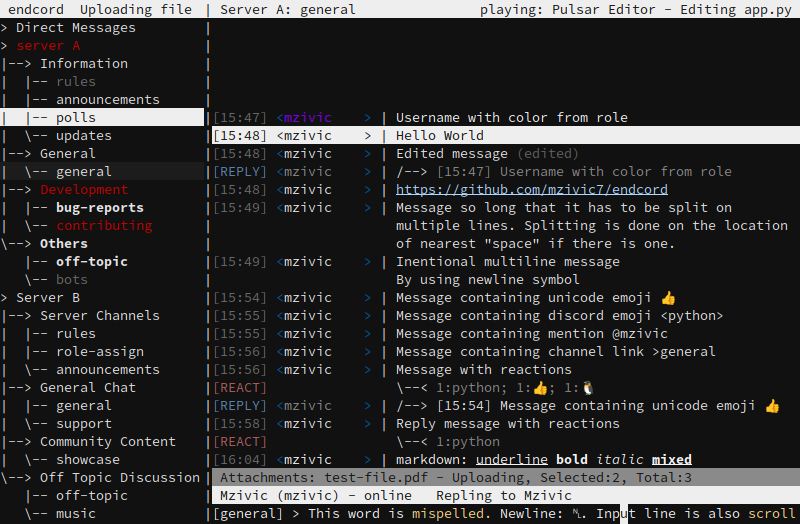
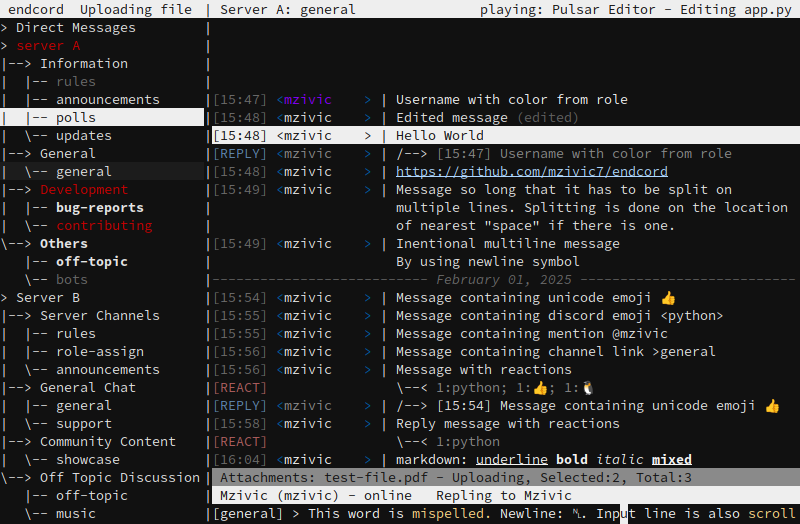
Add date separators Fix image rich embeds Update screenshots

diff --git a/endcord/gateway.py b/endcord/gateway.py
@@ -470,20 +470,21 @@ class Gateway():
                                 response["d"]["referenced_message"]["attachments"] = forwarded.get("attachments")
                             reference_embeds = []
                             for embed in response["d"]["referenced_message"]["embeds"]:
-                                if "url" in embed:
-                                    content = embed["url"]
-                                    # take direct video url
-                                    if "video" in embed and "url" in embed["video"]:
-                                        content = embed["video"]["url"]
+                                content = embed.get("url")
+                                if "video" in embed and "url" in embed["video"]:
+                                    content = embed["video"]["url"]
+                                elif "image" in embed and "url" in embed["image"]:
+                                    content = embed["image"]["url"]
                                 elif "fields" in embed:
                                     content = f"{embed["fields"][0]["name"]}\n{embed["fields"][0]["value"]}"
                                 else:
                                     content = None
-                                reference_embeds.append({
-                                    "type": embed["type"].replace("rich", "url"),
-                                    "name": None,
-                                    "url": content,
-                                })
+                                if content:
+                                    reference_embeds.append({
+                                        "type": embed["type"],
+                                        "name": None,
+                                        "url": content,
+                                    })
                             for attachment in response["d"]["referenced_message"]["attachments"]:
                                 reference_embeds.append({
                                     "type": attachment["content_type"],
@@ -514,11 +515,11 @@ class Gateway():
                             response["d"]["embeds"] = forwarded.get("embeds")
                             response["d"]["attachments"] = forwarded.get("attachments")
                         for embed in response["d"]["embeds"]:
-                            if "url" in embed:
-                                content = embed["url"]
-                                # take direct video url
-                                if "video" in embed and "url" in embed["video"]:
-                                    content = embed["video"]["url"]
+                            content = embed.get("url")
+                            if "video" in embed and "url" in embed["video"]:
+                                content = embed["video"]["url"]
+                            elif "image" in embed and "url" in embed["image"]:
+                                content = embed["image"]["url"]
                             elif "fields" in embed:
                                 content = ""
                                 if "url" in embed:
@@ -529,7 +530,7 @@ class Gateway():
                             else:
                                 content = None
                             # checking url path because query can be changed by discord
-                            if urllib.parse.urlparse(content).path not in response["d"]["content"]:
+                            if content and urllib.parse.urlparse(content).path not in response["d"]["content"]:
                                 embeds.append({
                                     "type": embed["type"],
                                     "name": None,
@@ -580,11 +581,11 @@ class Gateway():
                 elif optext == "MESSAGE_UPDATE":
                     embeds = []
                     for embed in response["d"]["embeds"]:
-                        if "url" in embed:
-                            content = embed["url"]
-                            # take direct video url
-                            if "video" in embed and "url" in embed["video"]:
-                                content = embed["video"]["url"]
+                        content = embed.get("url")
+                        if "video" in embed and "url" in embed["video"]:
+                            content = embed["video"]["url"]
+                        elif "image" in embed and "url" in embed["image"]:
+                            content = embed["image"]["url"]
                         elif "fields" in embed:
                             content = ""
                             if "url" in embed:
@@ -594,7 +595,7 @@ class Gateway():
                             content = content.strip("\n")
                         else:
                             content = None
-                        if urllib.parse.urlparse(content).path not in response["d"]["content"]:
+                        if content and urllib.parse.urlparse(content).path not in response["d"]["content"]:
                             embeds.append({
                                 "type": embed["type"],
                                 "name": None,

diff --git a/endcord/formatter.py b/endcord/formatter.py
@@ -4,7 +4,8 @@ import re
 from datetime import datetime
 
 logger = logging.getLogger(__name__)
-
+DAY_MS = 24*60*60*1000
+DISCORD_EPOCH_MS = 1420070400000
 
 match_emoji_string = re.compile(r"<.*?:.*?:\d*?>")
 match_emoji_name = re.compile(r"(?<=<:).*?(?=:)")
@@ -58,6 +59,18 @@ def generate_timestamp(discord_time, format_string, timezone=True):
     if timezone:
         time_obj = time_obj.astimezone()
     return datetime.strftime(time_obj, format_string)
+
+
+def day_from_snowflake(snowflake, timezone=True):
+    """Extract day from discord snowflake with optional timezone conversion"""
+    snowflake = int(snowflake)
+    if timezone:
+        time_obj = datetime.fromtimestamp(((snowflake >> 22) + DISCORD_EPOCH_MS) / 1000).astimezone()
+        time_obj = time_obj.astimezone()
+        return time_obj.day
+    # faster than datetime, but no timezone conversion
+    return ((snowflake >> 22) + DISCORD_EPOCH_MS) / DAY_MS
+
 
 
 def clean_emojis(line):
@@ -194,7 +207,7 @@ def clean_type(embed_type):
     return re.sub(match_after_slash, "", embed_type)
 
 
-def generate_chat(messages, roles, channels, format_message, format_newline, format_reply, format_reactions, format_one_reaction, format_timestamp, edited_string, reactions_separator, max_length, my_id, my_roles, member_roles, colors, colors_formatted, blocked, limit_username=15, limit_global_name=15, use_nick=True, convert_timezone=True, blocked_mode=1, keep_deleted=False):
+def generate_chat(messages, roles, channels, max_length, my_id, my_roles, member_roles, colors, colors_formatted, blocked, config):
     """
     Generate chat according to provided formatting.
     Message shape:
@@ -232,15 +245,36 @@ def generate_chat(messages, roles, channels, format_message, format_newline, for
     Returned indexes correspond to each message as how many lines it is covering.
     use_nick will make it use nick instead global_name whenever possible.
     """
+
+    # load from config
+    format_message = config["format_message"]
+    format_newline = config["format_newline"]
+    format_reply = config["format_reply"]
+    format_reactions = config["format_reactions"]
+    format_one_reaction = config["format_one_reaction"]
+    format_timestamp = config["format_timestamp"]
+    edited_string = config["edited_string"]
+    reactions_separator = config["reactions_separator"]
+    limit_username = config["limit_username"]
+    limit_global_name = config["limit_global_name"]
+    use_nick = config["use_nick_when_available"]
+    convert_timezone = config["convert_timezone"]
+    blocked_mode = config["blocked_mode"]
+    keep_deleted = config["keep_deleted"]
+    date_separator = config["chat_date_separator"]
+    format_date = config["format_date"]
+
     chat = []
     chat_format = []
     indexes = []
     len_edited = len(edited_string)
+    enable_separator = format_date and date_separator
 
     # load colors
     color_default = [colors[0]]
     color_blocked = [colors[2]]
     color_deleted = [colors[3]]
+    color_separator = [colors[4]]
     color_chat_edited = colors_formatted[4][0]
     color_mention_chat_edited = colors_formatted[10][0]
     color_chat_url = colors_formatted[5][0][0]
@@ -279,7 +313,7 @@ def generate_chat(messages, roles, channels, format_message, format_newline, for
     else:
         end_name = pre_name_len + limit_global_name + 1
 
-    for message in messages:
+    for num, message in enumerate(messages):
         temp_chat = []   # stores only one multiline message
         temp_format = []
         mentioned = False
@@ -329,6 +363,20 @@ def generate_chat(messages, roles, channels, format_message, format_newline, for
             else:
                 indexes.append(0)
                 continue   # to not break message-to-chat conversion
+
+        # date separator
+        try:
+            if enable_separator and day_from_snowflake(message["id"]) != day_from_snowflake(messages[num+1]["id"]):
+                # if this message is 1 day older than next message (up - past message)
+                date = generate_timestamp(message["timestamp"], format_date, convert_timezone)
+                # keep text always in center
+                filler = max_length - len(date)
+                filler_l = filler // 2
+                filler_r = filler - filler_l
+                temp_chat.append(f"{date_separator * filler_l}{date}{date_separator * filler_r}")
+                temp_format.append([color_separator])
+        except IndexError:
+            pass
 
         # replied message line
         if message["referenced_message"]:

diff --git a/endcord/discord.py b/endcord/discord.py
@@ -252,16 +252,18 @@ class Discord():
                             message["referenced_message"]["attachments"] = forwarded.get("attachments")
                         reference_embeds = []
                         for embed in message["referenced_message"]["embeds"]:
-                            url = embed.get("url")
-                            # take direct video url
+                            content = embed.get("url")
                             if "video" in embed and "url" in embed["video"]:
                                 url = embed["video"]["url"]
-                            reference_embeds.append({
-                                "type": embed["type"].replace("rich", "url"),
-                                "name": None,
-                                "url": url,
+                            elif "image" in embed and "url" in embed["image"]:
+                                content = embed["image"]["url"]
+                            if content:
+                                reference_embeds.append({
+                                    "type": embed["type"],
+                                    "name": None,
+                                    "url": url,
 
-                            })
+                                })
                         for attachment in message["referenced_message"]["attachments"]:
                             reference_embeds.append({
                                 "type": attachment["content_type"],
@@ -309,11 +311,11 @@ class Discord():
                     message["attachments"] = forwarded.get("attachments")
                 embeds = []
                 for embed in message["embeds"]:
-                    if "url" in embed:
-                        content = embed["url"]
-                        # take direct video url
-                        if "video" in embed and "url" in embed["video"]:
-                            content = embed["video"]["url"]
+                    content = embed.get("url")
+                    if "video" in embed and "url" in embed["video"]:
+                        content = embed["video"]["url"]
+                    elif "image" in embed and "url" in embed["image"]:
+                        content = embed["image"]["url"]
                     elif "fields" in embed:
                         content = ""
                         if "url" in embed:
@@ -324,7 +326,7 @@ class Discord():
                     else:
                         content = None
                     # checking url path because query can be changed by discord
-                    if urllib.parse.urlparse(content).path not in message["content"]:
+                    if content and urllib.parse.urlparse(content).path not in message["content"]:
                         embeds.append({
                             "type": embed["type"],
                             "name": None,

diff --git a/endcord/app.py b/endcord/app.py
@@ -39,18 +39,15 @@ class Endcord:
         self.limit_typing = max(config["limit_typing_string"], 25)
         self.send_my_typing = config["send_typing"]
         self.ack_throttling = max(config["ack_throttling"], 3)
-        self.convert_timezone = config["convert_timezone"]
         self.format_title_line_l = config["format_title_line_l"]
         self.format_title_line_r = config["format_title_line_r"]
         self.format_status_line_l = config["format_status_line_l"]
         self.format_status_line_r = config["format_status_line_r"]
         self.format_title_tree = config["format_title_tree"]
-        self.use_nick = config["use_nick_when_available"]
         self.reply_mention = config["reply_mention"]
         self.cache_typed = config["cache_typed"]
         self.enable_notifications = config["desktop_notifications"]
         self.notification_sound = config["linux_notification_sound"]
-        self.blocked_mode = config["blocked_mode"]
         self.hide_spam = config["hide_spam"]
         self.keep_deleted = config["keep_deleted"]
         self.deleted_cache_limit = config["deleted_cache_limit"]
@@ -932,14 +929,6 @@ class Endcord:
             self.messages,
             self.current_roles,
             self.current_channels,
-            self.config["format_message"],
-            self.config["format_newline"],
-            self.config["format_reply"],
-            self.config["format_reactions"],
-            self.config["format_one_reaction"],
-            self.config["format_timestamp"],
-            self.config["edited_string"],
-            self.config["reactions_separator"],
             self.chat_dim[1],
             self.my_id,
             self.my_roles,
@@ -947,12 +936,7 @@ class Endcord:
             self.colors,
             self.colors_formatted,
             self.blocked,
-            limit_username=self.config["limit_username"],
-            limit_global_name=self.config["limit_global_name"],
-            use_nick=self.use_nick,
-            convert_timezone=self.convert_timezone,
-            blocked_mode=self.blocked_mode,
-            keep_deleted=self.keep_deleted,
+            self.config,
         )
         if keep_selected:
             selected_msg = selected_msg + change_amount

diff --git a/endcord/defaults.py b/endcord/defaults.py
@@ -42,6 +42,8 @@ theme = {
     "format_prompt": "[%channel] > ",
     "edited_string": "(edited)",
     "reactions_separator": "; ",
+    "chat_date_separator": "-",
+    "format_date": " %B %d, %Y ",
     "limit_username": 10,
     "limit_global_name": 15,
     "limit_typing_string": 30,
@@ -57,6 +59,7 @@ theme = {
     "color_chat_blocked": [242, -1],
     "color_chat_deleted": [95, -1],
     "color_chat_selected": [233, 255],
+    "color_chat_separator": [242, -1, "i"],
     "color_status_line": [233, 255],
     "color_extra_line": [233, 245],
     "color_title_line": [233, 255],

diff --git a/endcord/peripherals.py b/endcord/peripherals.py
@@ -212,6 +212,7 @@ def extract_colors(config):
         check_color(config["color_chat_mention"]),
         check_color(config["color_chat_blocked"]),
         check_color(config["color_chat_deleted"]),
+        check_color(config["color_chat_separator"]),
     )
 
 

diff --git a/configuration.md b/configuration.md
@@ -78,7 +78,7 @@ Note: always put string in `""`. To use `"` inside the string escape it like thi
 - `format_one_reaction = "%count:%reaction"`  
     Formatting for single reaction string. Reactions string is assembled by joining these strings with `reactions_separator` in between. See [format_one_reaction](##format_one_reaction) for more info.
 - `format_timestamp = "%H:%M"`  
-    Same as [datetime format codes](https://docs.python.org/3/library/datetime.html#strftime-and-strptime-format-codes)
+    Format for timestamps in messages. Same as [datetime format codes](https://docs.python.org/3/library/datetime.html#strftime-and-strptime-format-codes)
 - `format_status_line_l = " %global_name (%username) - %status  %unreads %action %typing"`  
     Formatting for left side of status line. See [format_status](##format_status) for more info. Set to None to disable.
 - `format_status_line_r = None`  
@@ -97,6 +97,10 @@ Note: always put string in `""`. To use `"` inside the string escape it like thi
     A string added to the end of the message when it is edsited.
 - `reactions_separator = "; "`  
     A string placed between two reactions.
+- `chat_date_separator = "-"`  
+    A single character used to draw horizontal line for separating messages sent on different days. Set to None to disable date separator.
+- `format_date = " %B %d, %Y "`  
+    Format for timestamps in `chat_date_separator`. Same as [datetime format codes](https://docs.python.org/3/library/datetime.html#strftime-and-strptime-format-codes).
 - `limit_username = 10`  
     Limit to the username string length.
 - `limit_global_name = 15`  
@@ -138,6 +142,8 @@ Every next list has additional `start` and `end`- indexes on a line where color 
     Color for deleted mesages when `keep_deleted = True`.
 - `color_chat_selected = [233, 255]`  
     Color for selected line in chat.
+- `color_chat_separator = [242, -1, "i"]`  
+    Color for date separator line in chat.
 - `color_status_line = [233, 255]`  
     Color for status line.
 - `color_extra_line = [233, 245]`  

diff --git a/README.md b/README.md
@@ -39,6 +39,7 @@ Discord token is required in order to run endcord! see [Token](##token).
 - Hide or mask blocked/ignored users
 - No ghost pings (hopefully)
 - Role colors in chat
+- Date separtors in chat
 - Theming
 - Customizable status, title and prompt lines
 - Customizable chat lines (message, newline, reaction, reply)
